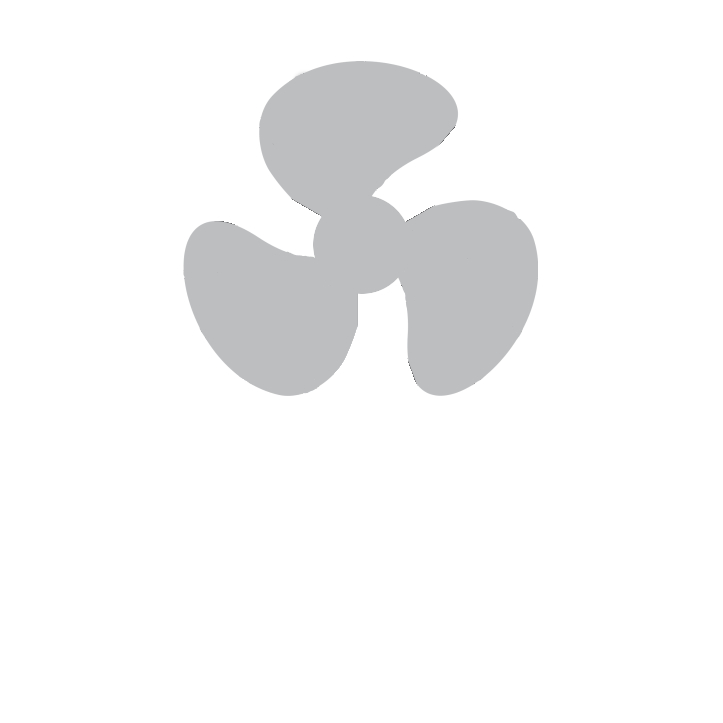
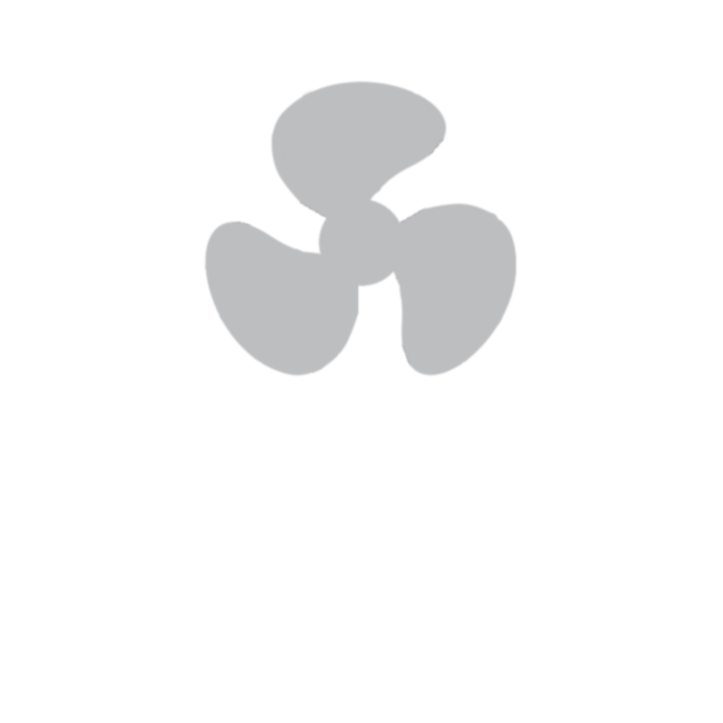
FCT: resized fan blades

diff --git a/tp_un/lib/widgets/fan_widget.dart b/tp_un/lib/widgets/fan_widget.dart
@@ -3,18 +3,10 @@ import 'package:flutter/material.dart';
 
 class FanWidget extends StatelessWidget {
   final AnimationController controller;
-  final double
-  size; // controls the width; height is derived from the image ratio
+  final double size;
 
   const FanWidget({super.key, required this.controller, this.size = 800});
 
-  // All three images are 1980×1080 — same canvas, so they stack perfectly.
-  //
-  // Rotation pivot: measure the hub centre in pixels in your images, then:
-  //   alignX = (hub_x − 990) / 990    (990 = half of 1980)
-  //   alignY = (hub_y − 540) / 540    (540 = half of 1080)
-  //
-  // Adjust the two numbers below until the blades spin around the hub.
   static const _hubAlignment = Alignment(0.005, -0.325);
 
   @override
@@ -27,7 +19,6 @@ class FanWidget extends StatelessWidget {
       height: h,
       child: Stack(
         children: [
-          // Layer 1 — full fan without blades (stand, base, ring, grill, hub)
           Image.asset(
             'assets/images/fan_base.png',
             width: w,
@@ -35,7 +26,6 @@ class FanWidget extends StatelessWidget {
             fit: BoxFit.fill,
           ),
 
-          // Layer 2 — rotating blades (same 1980×1080 canvas, aligns automatically)
           AnimatedBuilder(
             animation: controller,
             builder: (_, child) => Transform.rotate(
@@ -51,15 +41,12 @@ class FanWidget extends StatelessWidget {
             ),
           ),
 
-          // Layer 3 — grill/ring/hub rendered in front of the blades
-          // (same image as layer 1; transparent blade areas let layer 2 show through)
           Image.asset(
             'assets/images/fan_top.png',
             width: w,
             height: h,
             fit: BoxFit.fill,
           ),
-          // Add this as the last child in the Stack (draws on top of everything)
           Align(
             alignment: _hubAlignment,
             child: Container(
